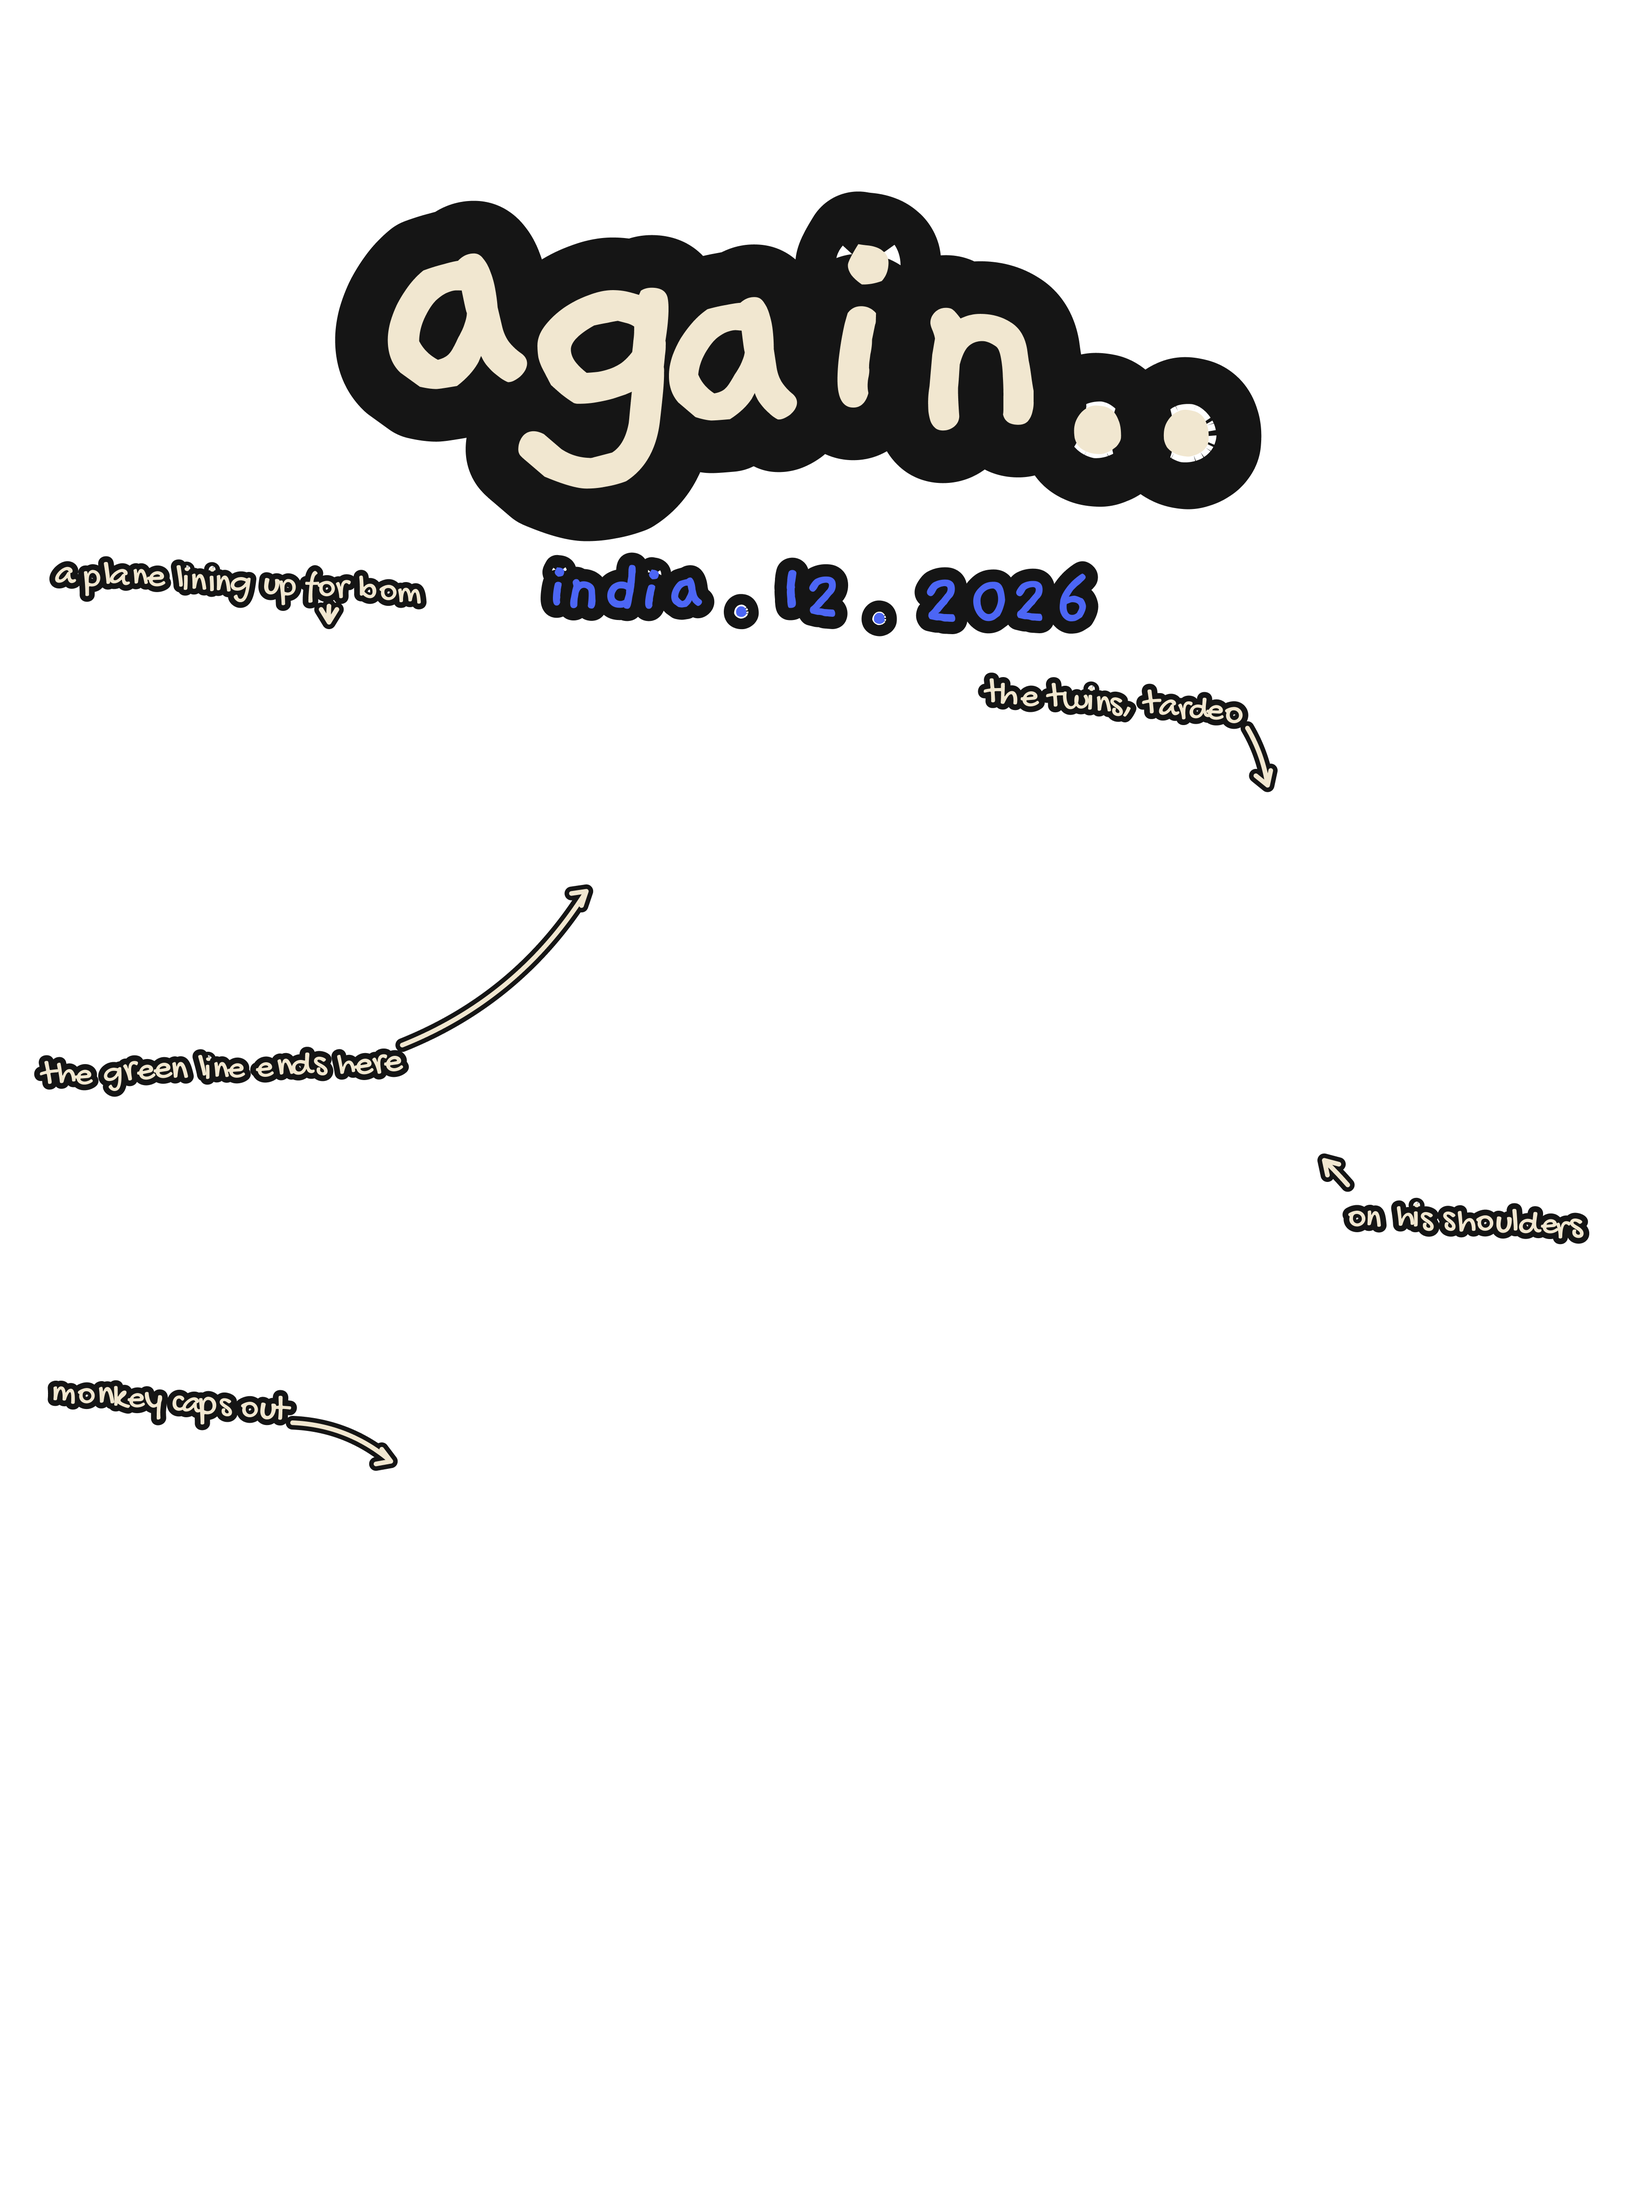
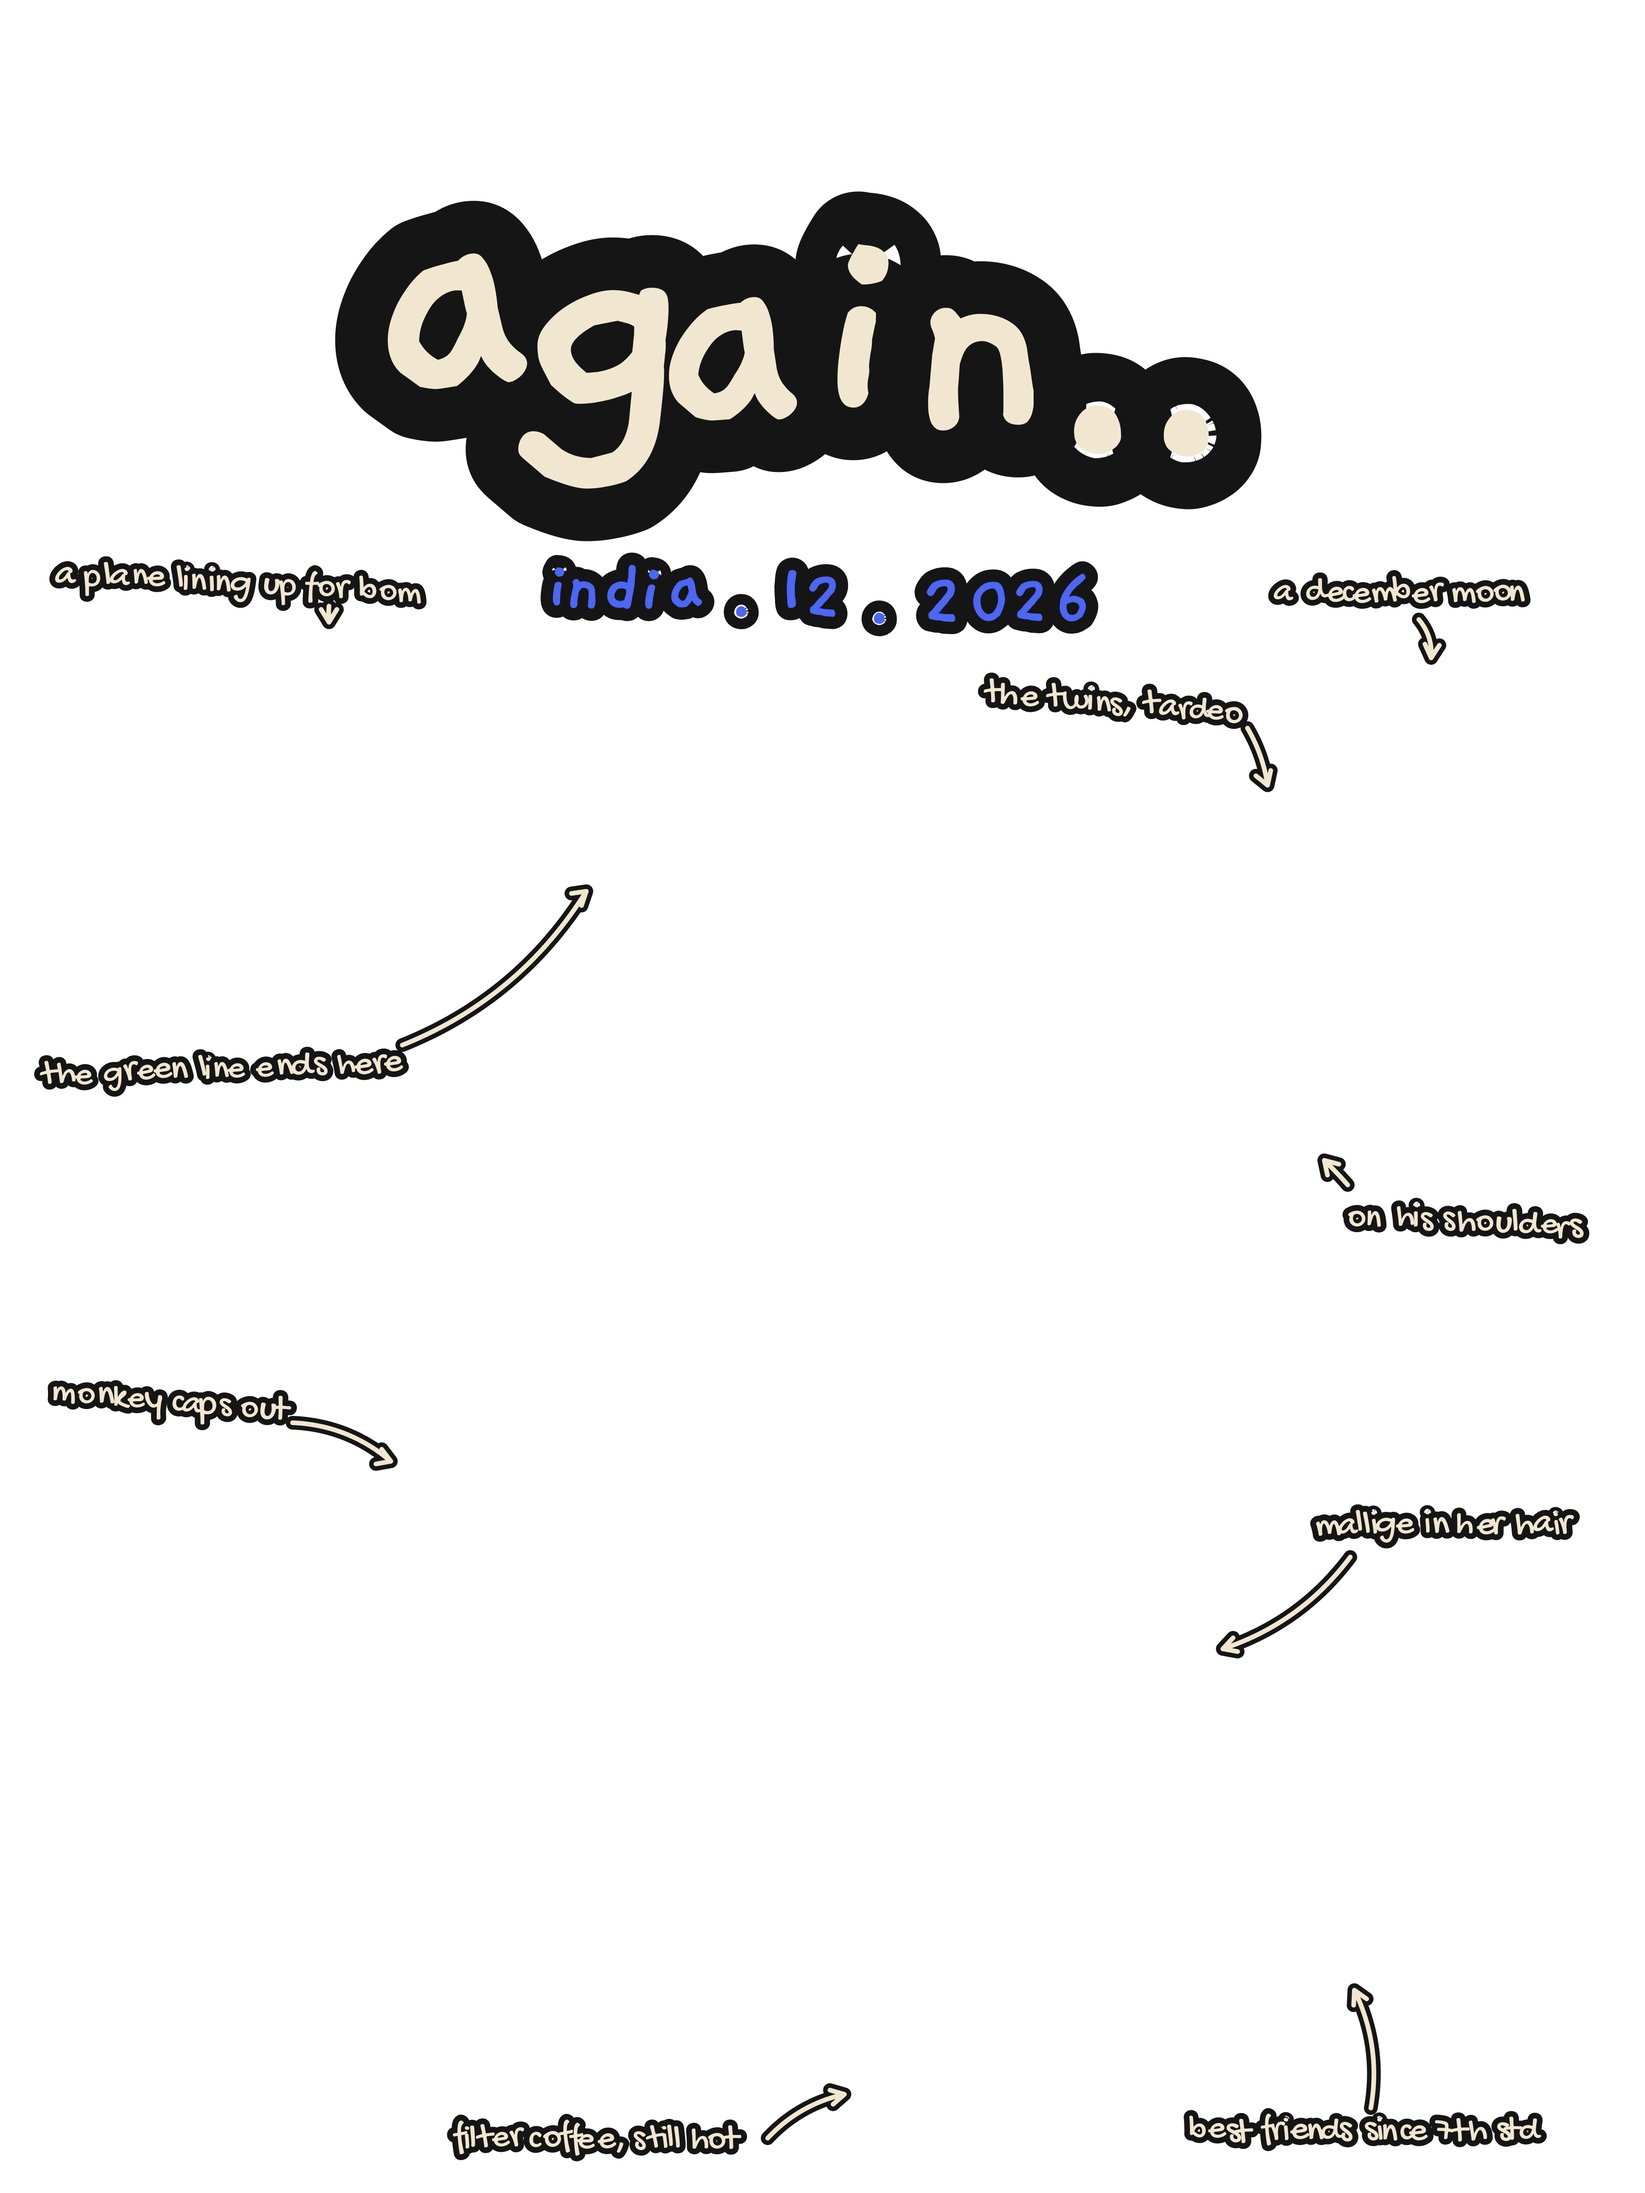
0.9.1: crowd, four more notes: a december moon, mallige in her hair, best friends since 7th std, filter coffee, still hot

diff --git a/CHANGELOG.md b/CHANGELOG.md
@@ -2,6 +2,10 @@
 
 Versions follow [SemVer](https://semver.org): MAJOR for a new site or pipeline structure, MINOR for a new garment, colourway, size or studio feature, PATCH for fixes to renders, numbers or copy. Every release is a git tag `vX.Y.Z` with its renders attached to the GitHub release.
 
+## 0.9.1 — 2026-11-25
+### Shirts
+- 01 crowd: four more notes in the same hand: a december moon / mallige in her hair / best friends since 7th std / filter coffee, still hot.
+
 ## 0.9.0 — 2026-11-25
 Bengaluru's map, drawn again as a picture to wear.
 
